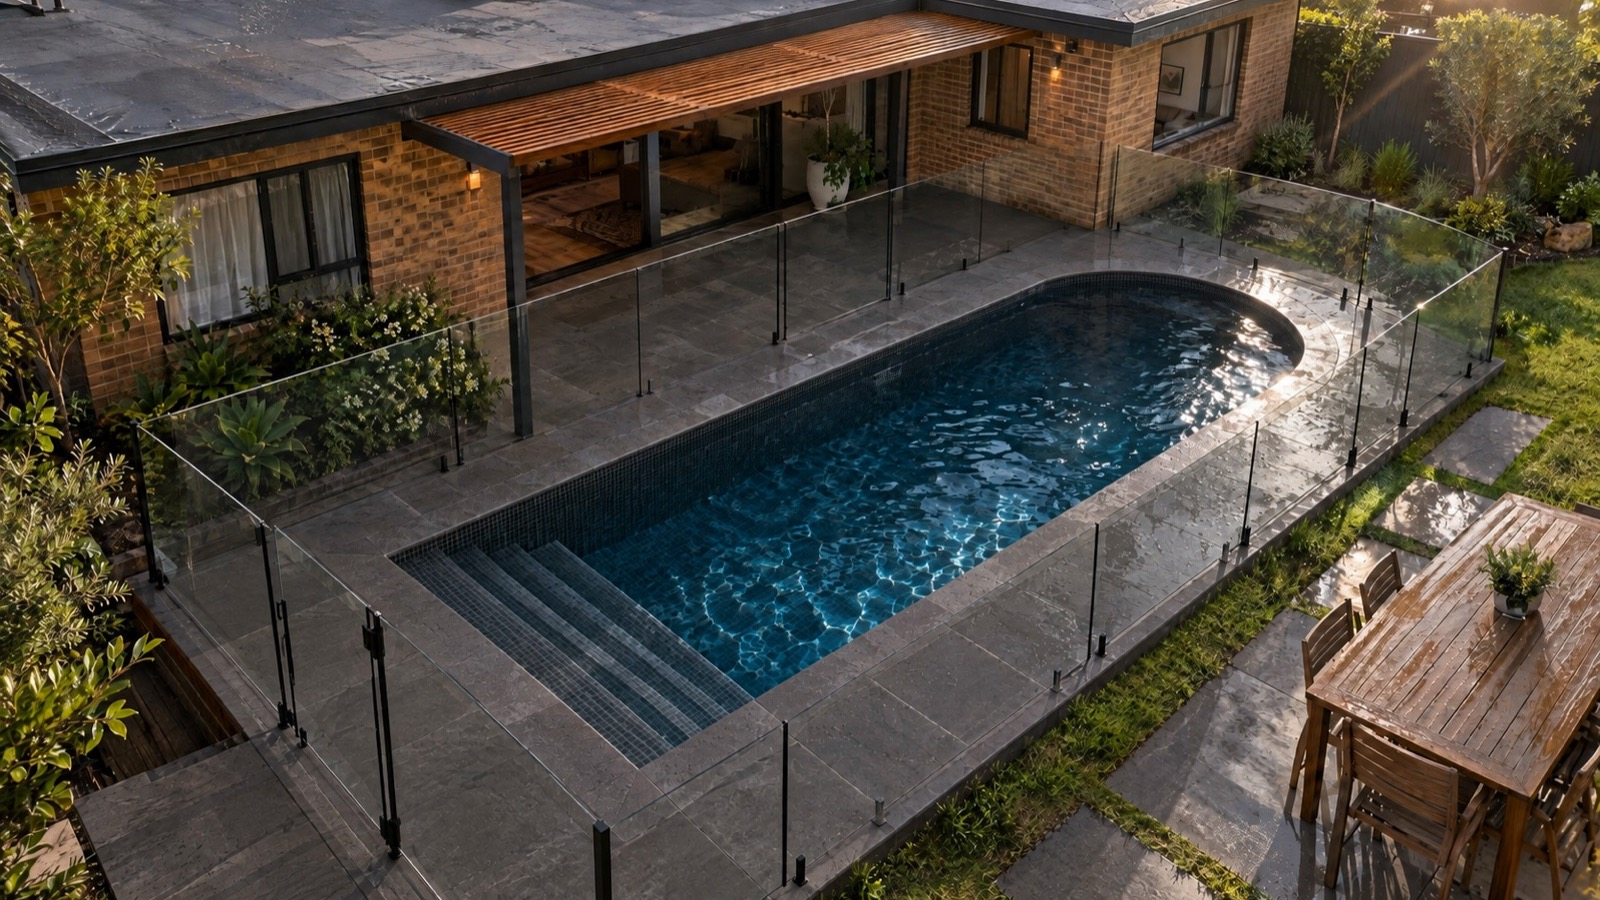
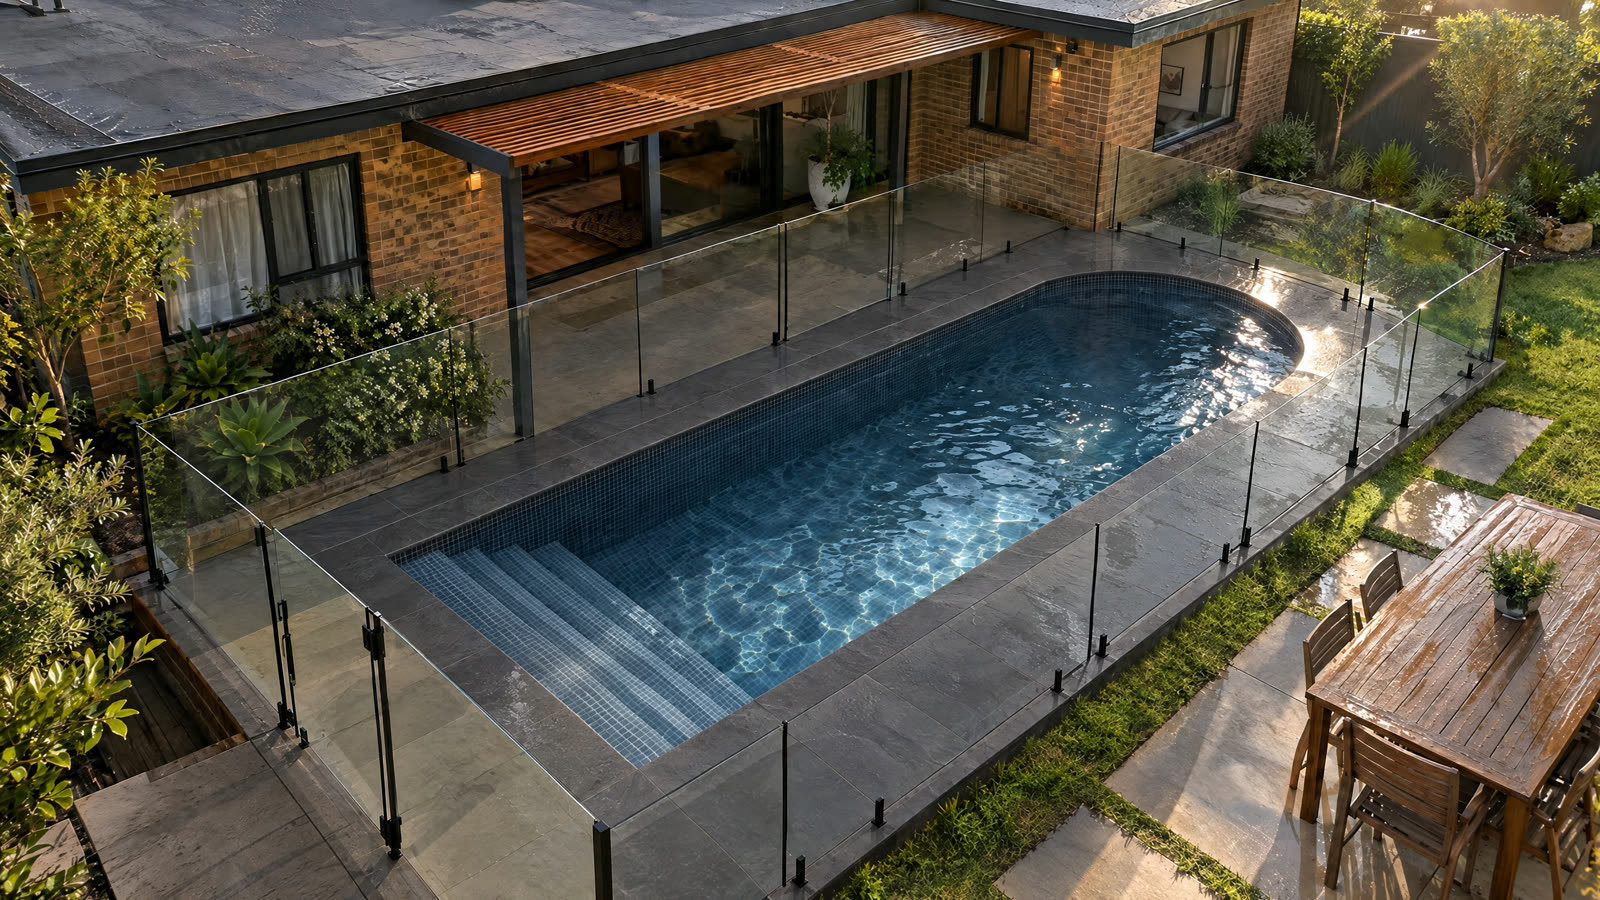
Lock finish comparison image angles

diff --git a/visualise/pools/index.html b/visualise/pools/index.html
@@ -24,7 +24,7 @@
     </section>
     <div class="strip"><div class="wrap"><span><b>30 sec</b> visualisation video</span><span><b>5</b> concept images</span><span><b>Fast</b> turnaround</span><span><b>A$99</b> introductory package</span></div></div>
     <section class="wrap section" id="examples" data-section="examples"><div class="section-heading"><div><p class="eyebrow">FOR YOUR NEXT QUOTE</p><h2>Visualise your proposal.</h2></div><p>Explore different pool shapes, finishes and backyard settings before construction begins.</p></div><div class="three"><figure><button type="button" class="media image filled film-card" data-film="plunge" aria-label="Play plunge pool film, 30 seconds"><img src="./assets/plunge-overhead-cinema.jpg" alt="Bird’s-eye view of a compact garden plunge pool" loading="lazy" decoding="async"><span class="media-label">30-second pool film</span><strong>The compact plunge</strong><span class="film-play" aria-hidden="true">▶</span></button><figcaption>A bird’s-eye view of a compact plunge, framed by brick and greenery.</figcaption></figure><figure><button type="button" class="media image tone-two filled film-card" data-film="family" aria-label="Play family pool film, 30 seconds"><img src="./assets/gallery-family-cinema.jpg" alt="Family pool with pale paving and outdoor living space" loading="lazy" decoding="async"><span class="media-label">30-second pool film</span><strong>The family favourite</strong><span class="film-play" aria-hidden="true">▶</span></button><figcaption>A pool, paving and room to spend summer together.</figcaption></figure><figure><button type="button" class="media image tone-three filled film-card" data-film="suburban" aria-label="Play suburban pool film, 30 seconds"><img src="./assets/suburban-higgs.jpg" alt="Curved pool beside a typical NSW suburban brick home" loading="lazy" decoding="async"><span class="media-label">30-second pool film</span><strong>The suburban classic</strong><span class="film-play" aria-hidden="true">▶</span></button><figcaption>A curved pool, practical paving and a familiar suburban backyard.</figcaption></figure></div><p class="fine">AI-generated illustrative concepts, not completed construction projects.</p></section>
-<section class="variation-section section" id="variations" data-section="variations"><div class="wrap"><div class="section-heading"><div><p class="eyebrow">SHOW YOUR VARIATIONS</p><h2>Give them options they can actually see.</h2></div><p>Instead of asking your customer to imagine how different finishes might look, show them. Present three clear directions for the same pool so they can compare, discuss and choose with confidence.</p></div><div class="finish-comparison" data-finish-comparison style="--finish-position:0%"><div class="finish-stage"><img class="finish-image is-active" data-finish-image="0" src="./assets/finish-light-coastal.jpg" alt="Pool shown with pale coastal paving and light aqua finishes" loading="lazy" decoding="async"><img class="finish-image" data-finish-image="1" src="./assets/finish-warm-natural.jpg" alt="Same pool shown with warm natural stone finishes" loading="lazy" decoding="async"><img class="finish-image" data-finish-image="2" src="./assets/finish-dark-architectural.jpg" alt="Same pool shown with dark architectural finishes" loading="lazy" decoding="async"><div class="finish-handle" aria-hidden="true"><span>↔</span></div><div class="finish-stage-copy"><strong data-finish-name>Light + Coastal</strong><span>Same pool. Three finish directions.</span></div></div><label class="finish-range-label" for="finish-range">Swipe to compare</label><input class="finish-range" id="finish-range" data-finish-range type="range" min="0" max="100" value="0" step="1" aria-label="Compare light, warm and dark pool finish options"><p class="finish-instruction">Drag to compare the finish options.</p><div class="finish-options"><button type="button" data-finish-option="0" aria-pressed="true"><b>01 / Light + Coastal</b><span>Pale paving, cool water tones and a bright, relaxed finish.</span></button><button type="button" data-finish-option="1" aria-pressed="false"><b>02 / Warm + Natural</b><span>Earthy stone, warmer tones and a softer connection to the backyard.</span></button><button type="button" data-finish-option="2" aria-pressed="false"><b>03 / Dark + Architectural</b><span>Deeper finishes, stronger contrast and a more contemporary feel.</span></button></div><div class="finish-sales-copy"><h3>A clearer sales conversation.</h3><p>Use visual variations to explore preferences, answer questions and keep the proposal moving—before materials are selected or construction begins.</p></div><p class="fine">Illustrative finish concepts for proposal conversations. Final colours, materials and specifications are confirmed separately.</p></div></section>
+<section class="variation-section section" id="variations" data-section="variations"><div class="wrap"><div class="section-heading"><div><p class="eyebrow">SHOW YOUR VARIATIONS</p><h2>Give them options they can actually see.</h2></div><p>Instead of asking your customer to imagine how different finishes might look, show them. Present three clear directions for the same pool so they can compare, discuss and choose with confidence.</p></div><div class="finish-comparison" data-finish-comparison style="--finish-position:0%"><div class="finish-stage"><img class="finish-image is-active" data-finish-image="0" src="./assets/finish-light-coastal.jpg?v=gpt25-locked-20260921" alt="Pool shown with pale coastal paving and light aqua finishes" loading="lazy" decoding="async"><img class="finish-image" data-finish-image="1" src="./assets/finish-warm-natural.jpg?v=gpt25-locked-20260921" alt="Same pool shown with warm natural stone finishes" loading="lazy" decoding="async"><img class="finish-image" data-finish-image="2" src="./assets/finish-dark-architectural.jpg?v=gpt25-locked-20260921" alt="Same pool shown with dark architectural finishes" loading="lazy" decoding="async"><div class="finish-handle" aria-hidden="true"><span>↔</span></div><div class="finish-stage-copy"><strong data-finish-name>Light + Coastal</strong><span>Same pool. Three finish directions.</span></div></div><label class="finish-range-label" for="finish-range">Swipe to compare</label><input class="finish-range" id="finish-range" data-finish-range type="range" min="0" max="100" value="0" step="1" aria-label="Compare light, warm and dark pool finish options"><p class="finish-instruction">Drag to compare the finish options.</p><div class="finish-options"><button type="button" data-finish-option="0" aria-pressed="true"><b>01 / Light + Coastal</b><span>Pale paving, cool water tones and a bright, relaxed finish.</span></button><button type="button" data-finish-option="1" aria-pressed="false"><b>02 / Warm + Natural</b><span>Earthy stone, warmer tones and a softer connection to the backyard.</span></button><button type="button" data-finish-option="2" aria-pressed="false"><b>03 / Dark + Architectural</b><span>Deeper finishes, stronger contrast and a more contemporary feel.</span></button></div><div class="finish-sales-copy"><h3>A clearer sales conversation.</h3><p>Use visual variations to explore preferences, answer questions and keep the proposal moving—before materials are selected or construction begins.</p></div><p class="fine">Illustrative finish concepts for proposal conversations. Final colours, materials and specifications are confirmed separately.</p></div></section>
 <section class="dark section" id="package" data-section="package"><div class="wrap package"><div><p class="eyebrow">One project. The whole picture.</p><h2>A little more<br>“I can see it.”</h2><p class="light-copy">Turn the idea behind your quote into something your customer can see, share and talk about.</p><div class="price">A$99<span>including GST · introductory package</span></div><p class="delivery-line">Your whole package.<br><strong>Ready to present.</strong></p><ul class="inclusions"><li>One 30-second transformation video</li><li>Five high-resolution concept images</li><li>One backyard. One proposed pool design.</li><li>One consolidated correction round</li><li>Delivered by email as a download link</li></ul><button class="button white" data-checkout="package">Get my pool package — A$99 ↗</button><p class="fine pale">Turnaround confirmed after we review your complete brief.<br>One-off package. No subscription.</p></div><div class="sample"><div class="media sample-video filled" data-package-viewer><video class="package-film" controls autoplay muted playsinline preload="none" poster="./assets/package-overview-cinema.jpg"></video><img src="./assets/package-overview-cinema.jpg" alt="Overview of the sample pool package" loading="lazy" decoding="async" hidden><span class="media-label">Package example / 30-second film</span><strong>One proposed pool.<br>Every part of the story.</strong></div><div class="six"><button type="button" class="media mini filled package-film-thumb" data-package-video="./assets/package-film-30s.mp4" aria-label="Play the 30-second package film"><img src="./assets/package-overview-cinema.jpg" alt="Play the package film" loading="lazy" decoding="async"><span>Film / 30 sec</span><i aria-hidden="true">▶</i></button><button type="button" class="media mini filled" data-package-image="./assets/package-overview-cinema.jpg" aria-label="View overview concept image"><img src="./assets/package-overview-cinema.jpg" alt="Overview view of the sample pool" loading="lazy" decoding="async"><span>01 / Overview</span></button><button type="button" class="media mini filled" data-package-image="./assets/package-poolside-cinema.jpg" aria-label="View poolside concept image"><img src="./assets/package-poolside-cinema.jpg" alt="Poolside view of the sample pool" loading="lazy" decoding="async"><span>02 / Poolside</span></button><button type="button" class="media mini filled" data-package-image="./assets/finishes-r2.jpg" aria-label="View finishes concept image"><img src="./assets/finishes-r2.jpg" alt="Finishes view of the sample pool" loading="lazy" decoding="async"><span>03 / Finishes</span></button><button type="button" class="media mini filled" data-package-image="./assets/lifestyle-r2.jpg" aria-label="View lifestyle concept image"><img src="./assets/lifestyle-r2.jpg" alt="Adults enjoying the sample pool from an overhead viewpoint" loading="lazy" decoding="async"><span>04 / Lifestyle</span></button><button type="button" class="media mini filled" data-package-image="./assets/package-evening-cinema.jpg" aria-label="View evening concept image"><img src="./assets/package-evening-cinema.jpg" alt="Evening view of the sample pool" loading="lazy" decoding="async"><span>05 / Evening</span></button></div><p class="fine pale">One 30-second film and five concept views of the same pool idea. Select any thumbnail to open it in the viewer above.</p></div></div></section>
     <section class="wrap section" id="process" data-section="process"><p class="eyebrow">No long forms. No big briefing exercise.</p><h2>You’ve probably already<br>got everything we need.</h2><div class="three steps"><article><span class="step">01</span><h3>Choose your package.</h3><p>Pay A$99 and enter your email at checkout. We’ll send your confirmation straight through.</p></article><article><span class="step">02</span><h3>Just hit reply.</h3><p>Send backyard photos and a few lines about your pool idea. Already have a quote, plan or finish reference? Forward it through.</p></article><article><span class="step">03</span><h3>Open the whole picture.</h3><p>Once we have your complete brief, we’ll confirm your delivery timing. Your video and five images arrive together by email.</p></article></div><div class="email-note"><span>THE EASY START</span><p>“Here’s the backyard. We’re proposing a rectangular pool with light paving. Plans attached.”</p><small>That’s a useful starting brief. We’ll ask if anything essential is missing.</small></div></section>
     <section class="soft section" data-section="confidence"><div class="wrap"><div class="section-heading"><div><p class="eyebrow">See how your idea takes shape</p><h2>Your brief.<br>Visible in the details.</h2></div><p>Your proposed pool stays at the centre. Give us the shape, finishes and features that matter, and we’ll use them to guide the concept.</p></div><div class="comparison"><div class="media filled"><img src="./assets/brief-before-phone.jpg" alt="Illustrative backyard before adding the pool" loading="lazy" decoding="async"><span class="media-label">Illustrative before</span><strong>The backyard. A starting point.</strong></div><div class="media filled"><img src="./assets/brief-after-r2.jpg" alt="Same backyard with a proposed pool concept" loading="lazy" decoding="async"><span class="media-label">Pool concept / after</span><strong>The proposed transformation</strong></div></div><p class="fine">Both images are AI-generated to demonstrate the process. Concept visuals help explain an idea. They are not measured plans or a guarantee of the final build.</p></div></section>
